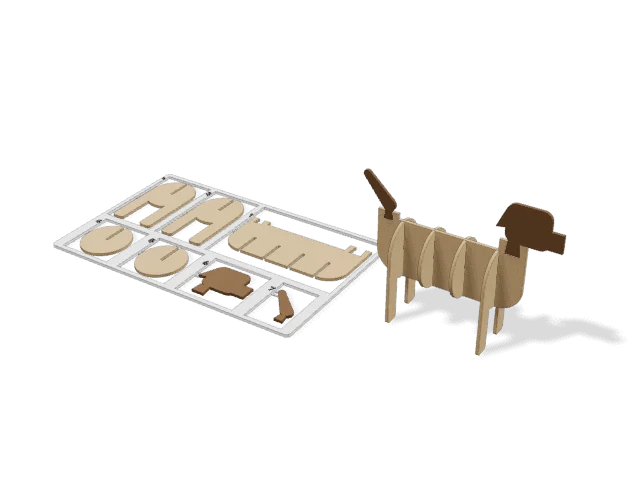
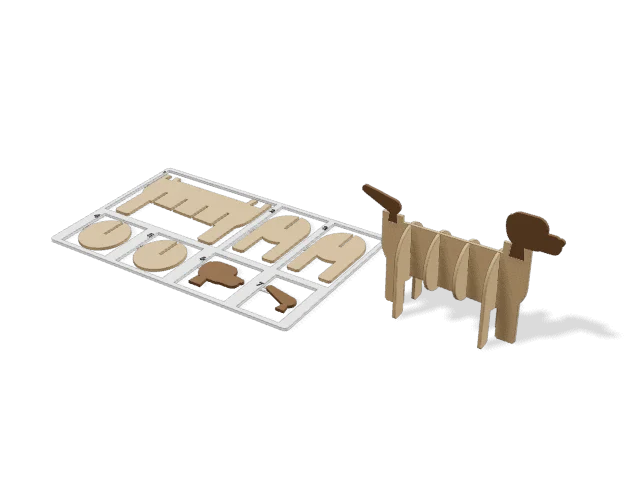
feat: Bicho de 4 patas mais cachorro (pernas de perfil, peito e garupa, cabeça com focinho e orelha), galeria dos kits em prateleira larga e gerador de prints dos kits

Changed region(s): [[0.0625, 0.3438, 0.9062, 0.75], [0.9375, 0.6875, 0.9688, 0.7188]]

diff --git a/src/geometry/kit/designs/bicho.ts b/src/geometry/kit/designs/bicho.ts
@@ -18,10 +18,14 @@ export const BICHO_LIMITS = { length: [50, 120], slices: [2, 6] } as const;
 
 const BODY_H = 0.4; // altura do corpo / comprimento
 const BODY_W = 0.36; // largura do corpo / comprimento
-const LEG_H = 0.28; // altura das pernas / comprimento
+const LEG_H = 0.22; // altura das pernas / comprimento
 const LEG_W_MIN = 6;
 const LEG_W = 0.1;
-const FRONT_LEG_AT = 0.18; // posição da fatia de perna da frente, em fração do comprimento (a de trás é o espelho)
+const FRONT_LEG_AT = 0.2; // posição da fatia de perna de trás, em fração do comprimento (a da frente é o espelho)
+const SPINE_LEG_W = 0.13; // largura da perna da coluna (as pernas de perfil, vistas de lado)
+const SPINE_LEG_AT = 0.04; // ... e a que distância da ponta ela começa
+const CHEST_R = 0.5; // raio do peito / altura do corpo
+const RUMP_R = 0.46; // raio da garupa / altura do corpo
 const WALL_MIN = 3; // parede mínima em volta de um soquete
 const SPIGOT_CLEARANCE = 0.75; // folga da espiga por lado = fit * isto
 const NECK_RISE = 0.08;
@@ -72,7 +76,12 @@ export function bichoSpine(env: Env, p: BichoParams): CS {
   const d = bichoDims(p, env);
   const a = bichoAnchors(p, env);
   const { L, H, s } = d;
-  const capsule = k(k(roundedRect(M, L, H, 0.4 * H)).translate([L / 2, H / 2]));
+  // corpo: do peito (fundo, redondo) à garupa (mais alta), com a linha do dorso reta; as duas pernas de perfil descem da barriga
+  const chest = k(M.CrossSection.circle(CHEST_R * H, 48).translate([L - CHEST_R * H, H - CHEST_R * H]));
+  const rump = k(M.CrossSection.circle(RUMP_R * H, 48).translate([RUMP_R * H, H - RUMP_R * H]));
+  const lw = SPINE_LEG_W * L;
+  const legs = [SPINE_LEG_AT * L + lw / 2, L - SPINE_LEG_AT * L - lw / 2].map((cx) => k(k(roundedFoot(M, cx, lw, d.P + 0.5 * H)).translate([0, -d.P])));
+  const capsule = k(M.CrossSection.union([k(M.CrossSection.hull([chest, rump])), ...legs]));
   const neck = k(box(M, L - a.headW, H * 0.5, L, a.headY));
   const rear = k(box(M, 0, H * 0.5, a.tailW, a.tailY));
   let body = k(union(M, [capsule, neck, rear]));
@@ -112,37 +121,40 @@ const spigot = (env: Env, sock: Sock): CS => {
   return dovetail(M, { ...sock, depth: sock.depth - 0.2 }, g, 0.2);
 };
 
-const HEAD_RECT = { x0: -0.06, x1: 0.22, h: 0.26 }; // frações do comprimento: o corpo da cabeça sobre a espiga (x = 0)
-
-/** Cabeça (perfil de lado, virada para +x) com a espiga para baixo (y < 0). */
+/** Cabeça (perfil de lado, virada para +x) com a espiga para baixo (y < 0). A cabeça apoia em y = 0; o fundo do crânio fica sobre a espiga em x = 0. */
 export function bichoHead(env: Env, p: BichoParams): CS {
   const { M, k } = env;
   const L = p.length;
   const f = (v: number) => v * L;
-  const r = f(p.head === "cat" ? 0.1 : 0.06);
-  const w = p.head === "dino" ? f(0.34) - f(HEAD_RECT.x0) : f(HEAD_RECT.x1 - HEAD_RECT.x0);
-  const h = f(p.head === "dino" ? 0.2 : HEAD_RECT.h);
-  const block = k(k(roundedRect(M, w, h, r)).translate([f(HEAD_RECT.x0) + w / 2, h / 2]));
-  const extra: CS[] = [];
+  const at = (c: CS, x: number, y: number) => k(c.translate([f(x), f(y)]));
+  const part = (w: number, h: number, r: number, x0: number, y0: number) => k(k(roundedRect(M, f(w), f(h), f(r))).translate([f(x0) + f(w) / 2, f(y0) + f(h) / 2]));
+  const oval = (rx: number, ry: number, cx: number, cy: number, deg = 0) => k(k(k(M.CrossSection.circle(1, 40).scale([f(rx), f(ry)])).rotate(deg)).translate([f(cx), f(cy)]));
+  const parts: CS[] = [];
   if (p.head === "dog") {
-    extra.push(k(box(M, f(0.18), f(0.02), f(0.3), f(0.14))));
-    extra.push(k(poly(M, [[f(-0.06), f(0.22)], [f(-0.12), f(0.08)], [f(0.0), f(0.1)]])));
+    parts.push(part(0.24, 0.22, 0.07, -0.07, 0)); // crânio
+    parts.push(part(0.16, 0.12, 0.045, 0.1, 0.01)); // focinho, mais baixo que o crânio
+    parts.push(oval(0.034, 0.088, -0.05, 0.102, 10)); // orelha caída, atrás (sem passar de y = 0: ali fica o pescoço da coluna)
+    parts.push(k(M.CrossSection.circle(f(0.022), 24).translate([f(0.255), f(0.1)]))); // nariz
   } else if (p.head === "cat") {
-    extra.push(k(poly(M, [[f(-0.02), f(0.22)], [f(0.02), f(0.34)], [f(0.07), f(0.22)]])));
-    extra.push(k(poly(M, [[f(0.12), f(0.22)], [f(0.17), f(0.34)], [f(0.21), f(0.22)]])));
+    parts.push(part(0.26, 0.23, 0.1, -0.07, 0));
+    parts.push(k(poly(M, [[f(-0.04), f(0.2)], [f(0.0), f(0.33)], [f(0.065), f(0.21)]])));
+    parts.push(k(poly(M, [[f(0.1), f(0.21)], [f(0.15), f(0.33)], [f(0.19), f(0.2)]])));
   } else {
-    extra.push(k(poly(M, [[f(0.02), f(0.19)], [f(0.07), f(0.27)], [f(0.12), f(0.19)]])));
+    // dinossauro: cabeça comprida e baixa (dois círculos unidos), crista e dentes na frente
+    const back = at(k(M.CrossSection.circle(f(0.085), 40)), 0.02, 0.085), tip = at(k(M.CrossSection.circle(f(0.05), 32)), 0.3, 0.07);
+    parts.push(k(M.CrossSection.hull([back, tip])));
+    parts.push(k(poly(M, [[f(0.0), f(0.16)], [f(0.05), f(0.25)], [f(0.1), f(0.15)]])));
   }
-  return union(M, [block, ...extra, k(spigot(env, bichoDims(p, env).headSock))]);
+  return union(M, [...parts, k(spigot(env, bichoDims(p, env).headSock))]);
 }
 
 /** Cauda: barra afilada da espiga (x = 0, y = 0) até a ponta, com a espiga para baixo. */
 export function bichoTail(env: Env, p: BichoParams): CS {
   const { M, k } = env;
   const L = p.length;
-  const end: Record<TailStyle, [number, number]> = { short: [-0.06, 0.1], long: [-0.16, 0.22], up: [-0.02, 0.28] };
+  const end: Record<TailStyle, [number, number]> = { short: [-0.07, 0.09], long: [-0.2, 0.12], up: [-0.08, 0.2] };
   const [ex, ey] = end[p.tail];
-  const w0 = Math.max(3.5, 0.045 * L), w1 = Math.max(2, 0.025 * L);
+  const w0 = Math.max(3.5, 0.05 * L), w1 = Math.max(2, 0.022 * L);
   const bar = k(M.CrossSection.hull([k(M.CrossSection.circle(w0, 24).translate([0, w0])), k(M.CrossSection.circle(w1, 24).translate([ex * L, ey * L]))]));
   return union(M, [bar, k(spigot(env, bichoDims(p, env).tailSock))]);
 }

diff --git a/src/thumbs/shots.ts b/src/thumbs/shots.ts
@@ -1,0 +1,74 @@
+import * as THREE from "three";
+import type { Model } from "../geometry/types";
+import type { Params } from "../tools/models/defs";
+import { buildModels, renderModels } from "./renderThumb";
+
+/*
+ * Prints para conferir os kits (cartão, montado em ¾, frente, lado e baú aberto), sem mouse: roda na página do E2E
+ * (tests/e2e/shots.e2e.ts, só com SHOTS=1). Fundo claro opaco, PNG.
+ */
+const BG = 0xf1f1f4;
+const AHEAD = { x: new THREE.Vector3(1, 0, 0.04).normalize(), "-y": new THREE.Vector3(0, -1, 0.04).normalize() };
+const views = (forward: "x" | "-y") => ({
+  top: new THREE.Vector3(0, -0.001, 1).normalize(),
+  threeQuarter: new THREE.Vector3(0.9, -1.4, 1.0).normalize(),
+  front: AHEAD[forward], // de frente: olhando para a frente do kit (o bicho aponta para +x, o baú abre para -y)
+  side: forward === "x" ? AHEAD["-y"] : AHEAD.x, // de lado: o perfil
+});
+export type ShotView = "top" | "threeQuarter" | "front" | "side";
+
+const W = 1280, H = 960;
+type Mesh = Model["parts"][number]["mesh"];
+
+/** Gira, em torno do eixo X que passa por (y0, z0), as peças cujo nome casa; abre = a frente (−y) sobe. */
+function swing(models: Model[], match: RegExp, y0: number, z0: number, deg: number): Model[] {
+  const a = (deg * Math.PI) / 180, c = Math.cos(a), s = Math.sin(a);
+  const turn = (m: Mesh): Mesh => {
+    const p = new Float32Array(m.positions);
+    for (let i = 0; i < p.length; i += 3) {
+      const dy = p[i + 1] - y0, dz = p[i + 2] - z0;
+      p[i + 1] = y0 + dy * c + dz * s;
+      p[i + 2] = z0 - dy * s + dz * c;
+    }
+    return { ...m, positions: p };
+  };
+  return models.map((m) => ({ ...m, parts: m.parts.map((q) => (match.test(q.name) ? { ...q, mesh: turn(q.mesh) } : q)) }));
+}
+
+/** Eixo (y, z) do baú no montado: acha a posição do piso (centrado em x = y = 0 no desenho) e soma a altura do eixo. */
+function bauAxis(preview: Model, hingeU: number, hingeV: number): [number, number] {
+  const floor = preview.parts.find((q) => /piso/i.test(q.name));
+  if (!floor) throw new Error("sem piso no montado");
+  const p = floor.mesh.positions;
+  let x0 = Infinity, x1 = -Infinity, y0 = Infinity, y1 = -Infinity, z0 = Infinity;
+  for (let i = 0; i < p.length; i += 3) {
+    x0 = Math.min(x0, p[i]); x1 = Math.max(x1, p[i]); y0 = Math.min(y0, p[i + 1]); y1 = Math.max(y1, p[i + 1]); z0 = Math.min(z0, p[i + 2]);
+  }
+  void x0; void x1;
+  const cy = (y0 + y1) / 2;
+  return [cy + hingeU, z0 - 2 + hingeV]; // o piso fica a FLOOR_Z = 2 acima do chão
+}
+
+export type ShotSet = Record<string, string>; // nome do arquivo → data URL PNG
+
+/** Todas as vistas de um kit: cartão, montado em ¾, frente e lado (e o baú aberto). */
+export async function kitShots(id: string, patch: Params, open?: { hingeU: number; hingeV: number }, forward: "x" | "-y" = "x"): Promise<ShotSet> {
+  const VIEWS = views(forward);
+  const models = await buildModels(id, patch);
+  const card = models.filter((m) => !m.previewOnly);
+  const preview = models.filter((m) => m.previewOnly);
+  const png = (ms: Model[], view: ShotView, fov = 26) => renderModels(ms, W, H, { dir: VIEWS[view], background: BG, png: true, fov, margin: 0.08 });
+  const out: ShotSet = {
+    "cartao.png": png(card, "top", 18),
+    "montado.png": png(preview, "threeQuarter"),
+    "frente.png": png(preview, "front", 18),
+    "lado.png": png(preview, "side", 18),
+  };
+  if (open) {
+    const [y0, z0] = bauAxis(preview[0], open.hingeU, open.hingeV);
+    const opened = swing(preview, /tampa/i, y0, z0, 70);
+    out["aberto.png"] = png(opened, "threeQuarter");
+    out["aberto-lado.png"] = png(opened, "side", 18);
+  }
+  return out;
+}

diff --git a/tests/e2e/shots.e2e.ts b/tests/e2e/shots.e2e.ts
@@ -1,0 +1,51 @@
+import { mkdirSync, writeFileSync } from "node:fs";
+import type { Page } from "@playwright/test";
+import { expect, go, openApp, test, toastWith } from "./tauri";
+
+// Prints dos kits para conferir (SHOTS=1, saída em SHOTS_OUT): cartão, montado ¾, frente, lado, baú aberto, galeria e os 3MF.
+// Tudo no navegador de teste (sem mouse nem tela do Mac).
+const OUT = process.env.SHOTS_OUT ?? "test-results/shots";
+const KITS = [
+  { id: "kitBicho", name: "Bicho de 4 patas (kit)", file: "bicho-cachorro", variant: "Cachorro", patch: { head: "dog", tail: "up", profile: "oval" } },
+  { id: "kitBicho", name: "Bicho de 4 patas (kit)", file: "bicho-dino", variant: "Dinossauro", patch: { head: "dino", tail: "long", profile: "boxy" } },
+  { id: "kitBau", name: "Baú (kit)", file: "bau", variant: "Médio", patch: {}, open: true },
+];
+
+async function saved3mf(page: Page, tauri: { files: Map<string, Uint8Array> }): Promise<Buffer> {
+  tauri.files.clear();
+  await page.getByRole("button", { name: /Salvar 3MF/ }).click();
+  await expect(toastWith(page, "Arquivo salvo em")).toBeVisible();
+  return Buffer.from([...tauri.files].find(([p]) => p.endsWith(".3mf"))![1]);
+}
+
+test("prints dos kits Bicho e Baú", async ({ page, tauri }) => {
+  test.skip(!process.env.SHOTS, "só com SHOTS=1");
+  test.setTimeout(900_000);
+  mkdirSync(OUT, { recursive: true });
+  await page.setViewportSize({ width: 1280, height: 900 });
+  await openApp(page);
+  await go(page, "Modelos prontos");
+  for (const kit of KITS) {
+    await page.getByRole("searchbox", { name: "Buscar modelo" }).fill(kit.id === "kitBau" ? "Baú" : "Bicho");
+    await page.getByRole("group", { name: "Modelo" }).getByRole("button", { name: kit.name, exact: true }).click();
+    await expect(page.locator(".viewer .overlay.busy")).toHaveCount(0, { timeout: 90_000 });
+    await page.getByRole("group", { name: "Variações prontas" }).getByRole("button", { name: kit.variant, exact: true }).click();
+    await expect(page.locator(".viewer .overlay.busy")).toHaveCount(0, { timeout: 90_000 });
+    if (kit.file === "bicho-cachorro") {
+      await page.setViewportSize({ width: 1900, height: 900 }); // a prateleira inteira, sem rolar
+      await page.addStyleTag({ content: ".kit-gallery { flex-wrap: wrap; }" }); // para a foto, os cards em fileiras
+      await page.locator(".kit-gallery").screenshot({ path: `${OUT}/galeria.png` });
+      await page.setViewportSize({ width: 1280, height: 900 });
+    }
+    writeFileSync(`${OUT}/${kit.file}.3mf`, await saved3mf(page, tauri));
+    const shots = await page.evaluate(
+      async ({ id, patch, open, forward }) => {
+        const { kitShots } = await import(/* @vite-ignore */ "/src/thumbs/shots.ts");
+        const axis = open ? await import(/* @vite-ignore */ "/src/geometry/kit/designs/bau.ts").then((m) => m.bauDims(m.DEFAULT_BAU, { t: 1.6, fit: 0.2 })) : null;
+        return kitShots(id, patch, axis ? { hingeU: axis.hingeU, hingeV: axis.hingeV } : undefined, forward);
+      },
+      { id: kit.id, patch: kit.patch, open: !!kit.open, forward: kit.id === "kitBau" ? ("-y" as const) : ("x" as const) },
+    );
+    for (const [name, url] of Object.entries(shots)) writeFileSync(`${OUT}/${kit.file}-${name}`, Buffer.from(url.split(",")[1], "base64"));
+  }
+});

diff --git a/src/thumbs/renderThumb.ts b/src/thumbs/renderThumb.ts
@@ -26,11 +26,11 @@ const MIN_LIGHTNESS = 0.06; // preto vira grafite escuro (continua preto); o rim
 /** Entradas que alguns modelos exigem para não abrir vazios. */
 const INPUTS: Record<string, Params> = { pix: { key: "loja@upvision.app", name: "Minha Loja", city: "Sao Paulo" }, coaster: { faceDown: false, text: "Café", borderWidth: 2 }, musicCard: { code: "qr", codeLink: "https://open.spotify.com/track/11dFghVXANMlKmJXsNCbNl", codeSize: 40 }, phoneStandFold: { layout: "assembled", text: "Ana", bodyColor: "#7c8ea6" }, bigFrame: { artW: 150, artH: 190, width: 22, claws: false, back: "none", bodyColor: "#8b5a2b" } }; // a miniatura mostra a moldura inteira (uma peça), não as peças soltas // o porta-copos imprime com o desenho na mesa: na miniatura ele aparece em cima
 
-async function buildModels(id: string): Promise<Model[]> {
+export async function buildModels(id: string, patch: Params = {}): Promise<Model[]> {
   const def = MODELS.find((m) => m.id === id);
   if (!def) throw new Error(`Modelo ${id} não existe`);
   const M = await getManifold();
-  const p = { ...def.defaults, ...INPUTS[id] };
+  const p = { ...def.defaults, ...INPUTS[id], ...patch };
   const fields = def.sections.flatMap((s) => s.fields);
   const font = await loadFont("hanken");
   const extra = Object.fromEntries(await Promise.all(fields.filter((f) => f.kind === "font").map(async (f) => [f.k, await loadFont(String(p[f.k]))] as const)));
@@ -55,11 +55,13 @@ function material(color: string): THREE.MeshPhysicalMaterial {
 }
 
 /** Desenha os modelos e devolve a imagem (WebP com transparência, data URL). */
-export function renderModels(models: Model[], w = THUMB_W, h = THUMB_H): string {
+export type ShotOpts = { dir?: THREE.Vector3; fov?: number; margin?: number; /** cor opaca do fundo (padrão: transparente) */ background?: number; png?: boolean };
+
+export function renderModels(models: Model[], w = THUMB_W, h = THUMB_H, opts: ShotOpts = {}): string {
   const renderer = new THREE.WebGLRenderer({ antialias: true, alpha: true, preserveDrawingBuffer: true });
   renderer.setPixelRatio(1);
   renderer.setSize(w, h, false);
-  renderer.setClearColor(0x000000, 0);
+  renderer.setClearColor(opts.background ?? 0x000000, opts.background === undefined ? 0 : 1);
   renderer.outputColorSpace = THREE.SRGBColorSpace;
   renderer.toneMapping = THREE.ACESFilmicToneMapping;
   renderer.toneMappingExposure = 1.0;
@@ -115,10 +117,10 @@ export function renderModels(models: Model[], w = THUMB_W, h = THUMB_H): string 
   floor.position.set(center.x, center.y, box.min.z - 0.01);
   floor.receiveShadow = true;
   scene.add(floor);
-  const camera = new THREE.PerspectiveCamera(THUMB_VIEW.fov, w / h, 0.1, span * 50);
-  fitCamera(camera, box, THUMB_VIEW.dir, THUMB_VIEW.margin);
+  const camera = new THREE.PerspectiveCamera(opts.fov ?? THUMB_VIEW.fov, w / h, 0.1, span * 50);
+  fitCamera(camera, box, opts.dir ?? THUMB_VIEW.dir, opts.margin ?? THUMB_VIEW.margin);
   renderer.render(scene, camera);
-  const url = renderer.domElement.toDataURL("image/webp", 0.86);
+  const url = opts.png ? renderer.domElement.toDataURL("image/png") : renderer.domElement.toDataURL("image/webp", 0.86);
   // limpa a GPU: são dezenas de miniaturas na mesma página
   group.traverse((o) => {
     const mesh = o as THREE.Mesh;

diff --git a/src/styles/components.css b/src/styles/components.css
@@ -488,8 +488,8 @@ h3.subhead svg { width: 16px; height: 16px; color: var(--muted); }
 .kit-sil { display: grid; gap: var(--space-2); padding: var(--space-3); border-radius: var(--r-lg); background: var(--surface); box-shadow: 0 0 0 0.5px var(--border); }
 .kit-sil-title { margin: 0; font-size: var(--text-md); font-weight: 600; }
 .kit-sil-view img { display: block; width: min(100%, 320px); border-radius: var(--r-sm); box-shadow: 0 0 0 0.5px var(--border-strong); }
-.kit-gallery { display: grid; grid-template-columns: repeat(auto-fit, minmax(190px, 1fr)); gap: var(--space-2); }
-.kit-gallery-card { display: grid; gap: 4px; align-content: start; text-align: left; padding: var(--space-2); border-radius: var(--r-lg); background: var(--surface); box-shadow: 0 0 0 0.5px var(--border-strong); cursor: pointer; transition: box-shadow var(--dur-fast) ease, background var(--dur-fast) ease; }
+.kit-gallery { display: flex; gap: var(--space-2); overflow-x: auto; padding: 2px 2px var(--space-2); scroll-snap-type: x proximity; }
+.kit-gallery-card { flex: 0 0 220px; scroll-snap-align: start; display: grid; gap: 4px; align-content: start; text-align: left; padding: var(--space-2); border-radius: var(--r-lg); background: var(--surface); box-shadow: 0 0 0 0.5px var(--border-strong); cursor: pointer; transition: box-shadow var(--dur-fast) ease, background var(--dur-fast) ease; }
 .kit-gallery-card:hover { background: var(--fill); }
 .kit-gallery-card[aria-pressed="true"] { box-shadow: 0 0 0 2px var(--accent); background: var(--accent-soft); }
 .kit-gallery-thumb { display: grid; place-items: center; aspect-ratio: 4 / 3; border-radius: var(--r-sm); background: var(--fill); overflow: hidden; }

diff --git a/src/tools/Models.tsx b/src/tools/Models.tsx
@@ -314,6 +314,7 @@ export default function Models({ only, embedded }: { only?: string; embedded?: {
       {!only && !embedded && <p className="lead">Escolha, ajuste o texto e salve o 3MF em cores.</p>}
       <ToolSessionBar tool={tool} />
       {!only && !embedded && <ModelGallery id={id} onPick={pickFromGallery} category={category} onCategory={setCategory} query={query} onQuery={setQuery} occasion={occasion} onOccasion={setOccasion} favorites={favorites} />}
+      {!only && !embedded && family.id === "assembleKits" && <KitGallery id={id} onPick={pickVariant} />}
       <div className="tool-layout" ref={layoutRef} data-model={id}>
         <div className="controls">
           <div className="row model-head">
@@ -327,7 +328,7 @@ export default function Models({ only, embedded }: { only?: string; embedded?: {
             </button>
           </div>
           <p className="hint">{def.blurb}</p>
-          {!only && (family.id === "assembleKits" ? <KitGallery id={id} onPick={pickVariant} /> : <VariantPicker id={id} onPick={pickVariant} only={embeddedIds} />)}
+          {!only && family.id !== "assembleKits" && <VariantPicker id={id} onPick={pickVariant} only={embeddedIds} />}
           {variants.length > 0 && (
             <div className="chips" role="group" aria-label="Variações prontas">
               {variants.map((v) => (

diff --git a/docs/QA-modelos.md b/docs/QA-modelos.md
@@ -23,12 +23,18 @@ Peça maior que a mesa de 256 mm do A1 conta como **aviso** quando o app avisa n
 impressoras de mesa maior); sem o aviso do app, é **falha**.
 
 
-**Total:** 310 casos · 232 ok · 77 com aviso · 1 com falha · 0 n/a
+**Total:** 316 casos · 232 ok · 83 com aviso · 1 com falha · 0 n/a
 
 ## Forja
 
 | Modelo | Valores | Resultado | Fatiadores | Tempo (min) | PLA (g) | Placas | Pausas (Z) | Motivo |
 |---|---|---|---|---:|---:|---:|---|---|
+| Baú (kit) (kitBau) | máximo | ⚠ aviso | Bambu ✓ · Orca ✓ · Projeto Bambu ✓ | – | – | – | – | Bambu: torre de purga em cima de uma peça depois do --arrange do CLI (na tela, arraste a torre ou use Arrumar); Orca: torre de purga em cima de uma peça depois do --arrange do CLI (na tela, arraste a torre ou use Arrumar); Projeto Bambu: torre de purga em cima de uma peça depois do --arrange do CLI (na tela, arraste a torre ou use Arrumar); app: As peças não cabem no cartão pedido: usei o cartão da mesa inteira (243 × 190 mm).; app: Para montar: destaque as peças dobrando os pontos de corte. Corte os pontos de corte com alicate e lixe os cotos. Monte a caixa: encaixe a frente e o fundo 1 a 2 nas laterais 3 a 4 pelas abas e ponha o piso 5. Monte a tampa com o topo 6 para baixo: encaixe a frente 7 e as laterais 8 a 9. A tampa não tem parede de trás. Pouse a tampa na caixa, alinhe os furos atrás e empurre um pino 10 a 11 de cada lado.; app: Só 1 cartão(ões) de 242,6 × 190 mm cabem juntos numa mesa de 256 mm (você pediu 12): escolha um cartão menor para caber mais. |
+| Baú (kit) (kitBau) | mínimo | ⚠ aviso | Bambu ✓ · Orca ✓ · Projeto Bambu ✓ | 60 | 21,0 | 1 | – | Orca: torre de purga passa da mesa na posição padrão do CLI (na tela, arraste a torre ou use Arrumar); Projeto Bambu: torre de purga passa da mesa na posição padrão do CLI (na tela, arraste a torre ou use Arrumar); app: Para montar: destaque as peças dobrando os pontos de corte. Corte os pontos de corte com alicate e lixe os cotos. Monte a caixa: encaixe a frente e o fundo 1 a 2 nas laterais 3 a 4 pelas abas e ponha o piso 5. Monte a tampa com o topo 6 para baixo: encaixe a frente 7 e as laterais 8 a 9. A tampa não tem parede de trás. Pouse a tampa na caixa, alinhe os furos atrás e empurre um pino 10 a 11 de cada lado. |
+| Baú (kit) (kitBau) | padrão | ⚠ aviso | Bambu ✓ · Orca ✓ · Projeto Bambu ✓ | 102 | 42,6 | 1 | – | Orca: torre de purga passa da mesa na posição padrão do CLI (na tela, arraste a torre ou use Arrumar); Projeto Bambu: torre de purga passa da mesa na posição padrão do CLI (na tela, arraste a torre ou use Arrumar); app: As peças não cabem no cartão pedido: usei o cartão maior (223 × 111 mm).; app: Para montar: destaque as peças dobrando os pontos de corte. Corte os pontos de corte com alicate e lixe os cotos. Monte a caixa: encaixe a frente e o fundo 1 a 2 nas laterais 3 a 4 pelas abas e ponha o piso 5. Monte a tampa com o topo 6 para baixo: encaixe a frente 7 e as laterais 8 a 9. A tampa não tem parede de trás. Pouse a tampa na caixa, alinhe os furos atrás e empurre um pino 10 a 11 de cada lado. |
+| Bicho de 4 patas (kit) (kitBicho) | máximo | ⚠ aviso | Bambu ✓ · Orca ✓ · Projeto Bambu ✓ | – | – | – | – | Bambu: torre de purga em cima de uma peça depois do --arrange do CLI (na tela, arraste a torre ou use Arrumar); Orca: torre de purga em cima de uma peça depois do --arrange do CLI (na tela, arraste a torre ou use Arrumar); Projeto Bambu: torre de purga em cima de uma peça depois do --arrange do CLI (na tela, arraste a torre ou use Arrumar); app: Com 120 mm de comprimento só cabem 4 fatias no cartão: usei 4. Diminua o comprimento para usar mais.; app: As peças não cabem no cartão pedido: usei o cartão da mesa inteira (216 × 200 mm).; app: Para montar: destaque as peças dobrando os pontos de corte. Corte os pontos de corte com alicate e lixe os cotos. Vire a coluna 1 de cabeça para baixo e encaixe as fatias 2 a 3 e 4 a 5 pelas fendas, da frente para trás: as de perna são as das pontas. Desvire: o bicho fica em pé nas 4 pernas. Desça a cabeça 6 pelo soquete da frente e a cauda 7 pelo de trás.; app: Só 1 cartão(ões) de 216,4 × 199,9 mm cabem juntos numa mesa de 256 mm (você pediu 12): escolha um cartão menor para caber mais. |
+| Bicho de 4 patas (kit) (kitBicho) | mínimo | ⚠ aviso | Bambu ✓ · Orca ✓ · Projeto Bambu ✓ | 34 | 9,2 | 1 | – | Orca: torre de purga passa da mesa na posição padrão do CLI (na tela, arraste a torre ou use Arrumar); Projeto Bambu: torre de purga passa da mesa na posição padrão do CLI (na tela, arraste a torre ou use Arrumar); app: Para montar: destaque as peças dobrando os pontos de corte. Corte os pontos de corte com alicate e lixe os cotos. Vire a coluna 1 de cabeça para baixo e encaixe as fatias 2 a 3 pelas fendas, da frente para trás: as de perna são as das pontas. Desvire: o bicho fica em pé nas 4 pernas. Desça a cabeça 4 pelo soquete da frente e a cauda 5 pelo de trás. |
+| Bicho de 4 patas (kit) (kitBicho) | padrão | ⚠ aviso | Bambu ✓ · Orca ✓ · Projeto Bambu ✓ | 75 | 26,8 | 1 | – | Orca: torre de purga passa da mesa na posição padrão do CLI (na tela, arraste a torre ou use Arrumar); Projeto Bambu: torre de purga passa da mesa na posição padrão do CLI (na tela, arraste a torre ou use Arrumar); app: Para montar: destaque as peças dobrando os pontos de corte. Corte os pontos de corte com alicate e lixe os cotos. Vire a coluna 1 de cabeça para baixo e encaixe as fatias 2 a 3 e 4 a 5 pelas fendas, da frente para trás: as de perna são as das pontas. Desvire: o bicho fica em pé nas 4 pernas. Desça a cabeça 6 pelo soquete da frente e a cauda 7 pelo de trás. |
 | Nome articulado (articulatedName) | máximo | ✅ ok | Bambu ✓ · Orca ✓ · Projeto Bambu ✓ | 51 | 25,3 | 1 | – | app: Dobradiça com folga de 0,6 mm: imprima um teste; se as letras grudarem, aumente a folga. |
 | Nome articulado (articulatedName) | mínimo | ✅ ok | Bambu ✓ · Orca ✓ · Projeto Bambu ✓ | 15 | 5,2 | 1 | – | app: Dobradiça com folga de 0,15 mm: imprima um teste; se as letras grudarem, aumente a folga. |
 | Nome articulado (articulatedName) | padrão | ✅ ok | Bambu ✓ · Orca ✓ · Projeto Bambu ✓ | 22 | 8,3 | 1 | – | app: Dobradiça com folga de 0,3 mm: imprima um teste; se as letras grudarem, aumente a folga. |
